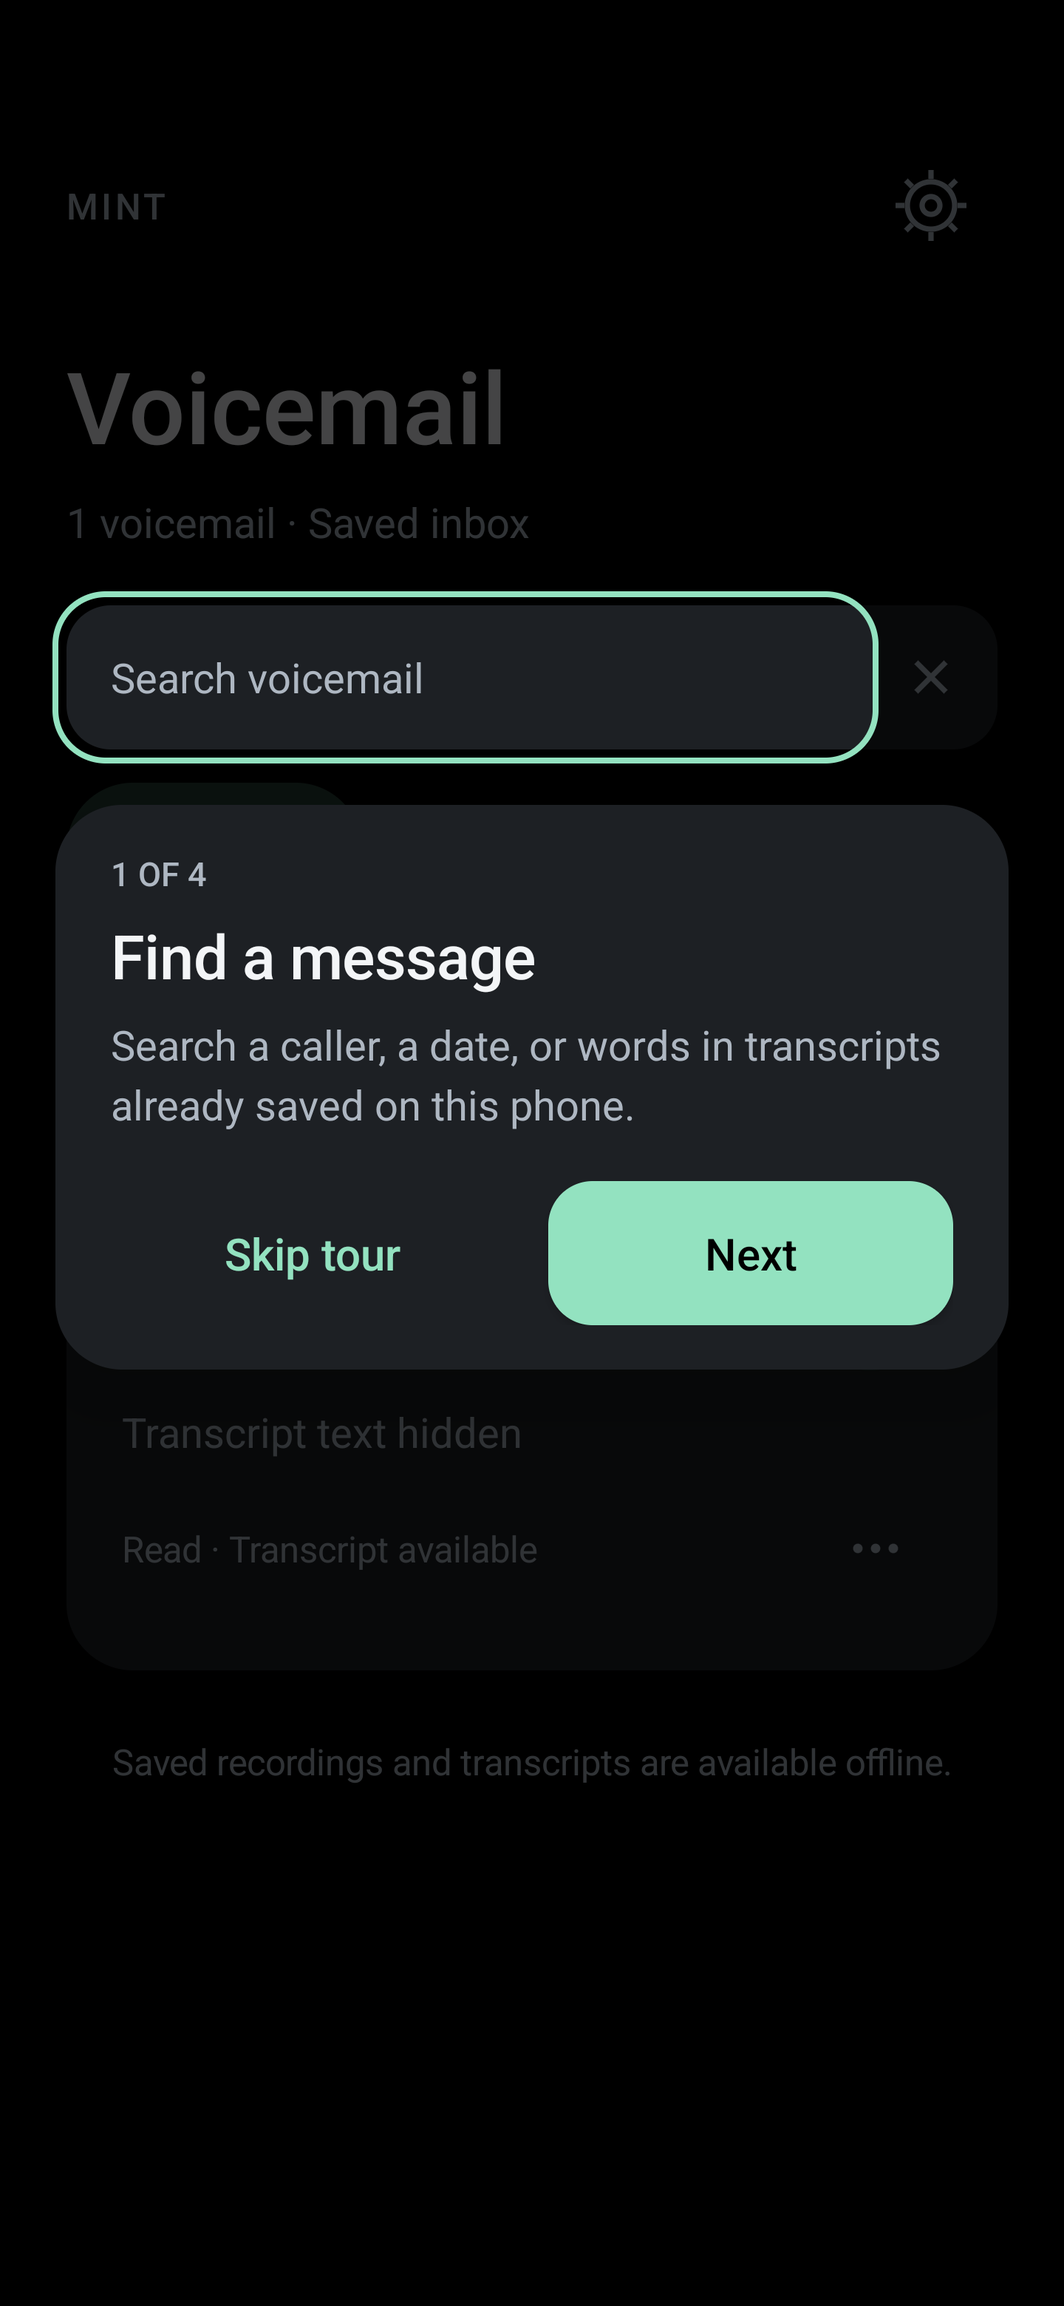
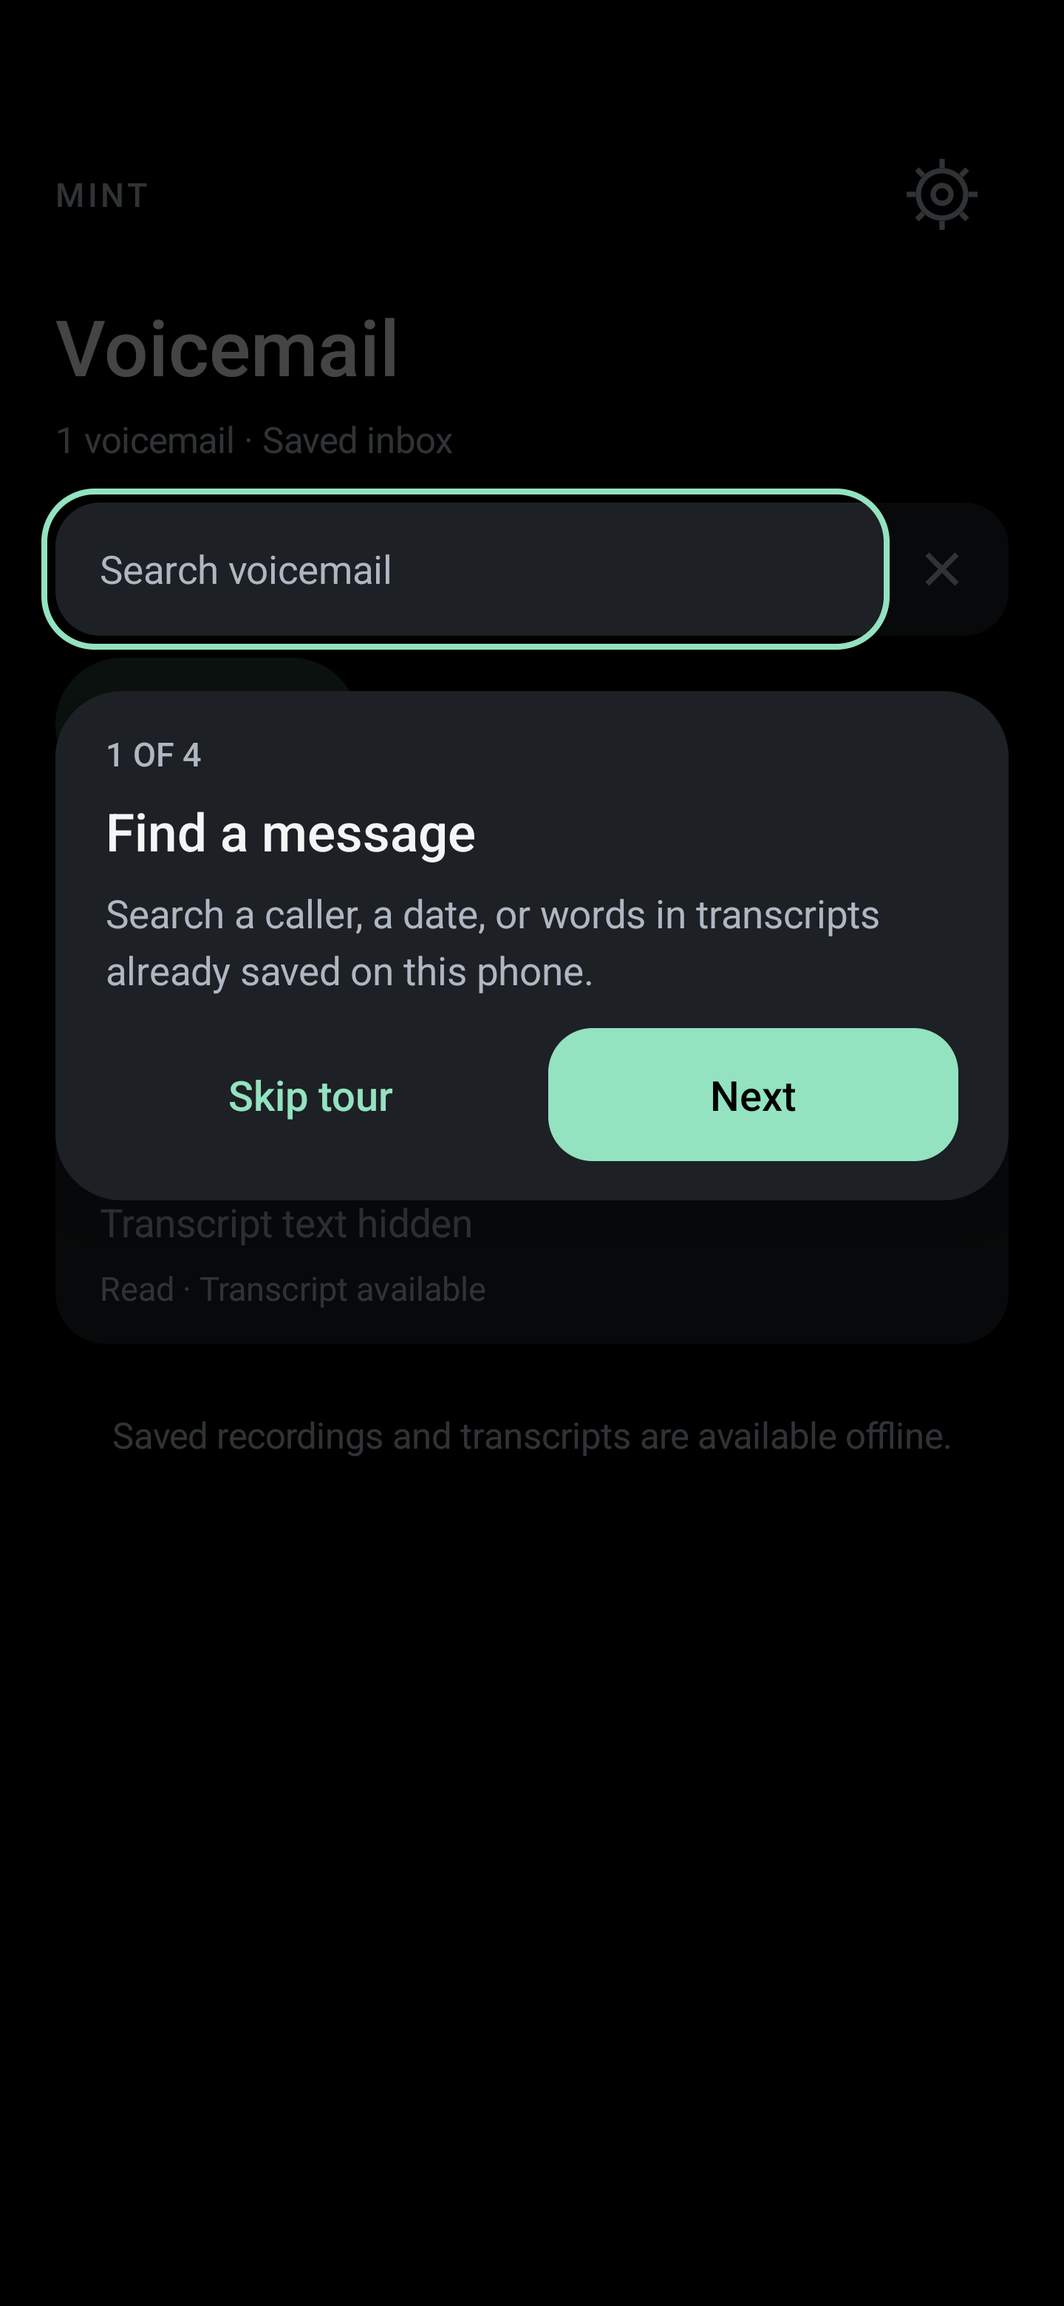
Document compact layouts and verify back navigation

diff --git a/app/device-tests/NavigationCheck.java b/app/device-tests/NavigationCheck.java
@@ -1,0 +1,146 @@
+package org.visualvoicemail.checks;
+
+import android.app.*;
+import android.content.*;
+import android.os.*;
+import android.view.*;
+
+import org.json.*;
+
+import java.lang.reflect.*;
+import java.util.*;
+
+/** Back returns within the app in normal flows and reconstructs parents for isolated pages. */
+public final class NavigationCheck extends Instrumentation {
+    private int checks;
+    private Context context;
+    private Activity screen;
+
+    private void check(boolean value) throws Exception {
+        checks++;
+        if (!value) throw new Exception("check " + checks);
+    }
+
+    private Object field(Object target, String name) throws Exception {
+        Field f = target.getClass().getDeclaredField(name);
+        f.setAccessible(true);
+        return f.get(target);
+    }
+
+    private View find(View root, String description) {
+        if (description.contentEquals(
+                root.getContentDescription() == null ? "" : root.getContentDescription()))
+            return root;
+        if (root instanceof ViewGroup)
+            for (int i = 0; i < ((ViewGroup) root).getChildCount(); i++) {
+                View found = find(((ViewGroup) root).getChildAt(i), description);
+                if (found != null) return found;
+            }
+        return null;
+    }
+
+    private void click(View view) throws Exception {
+        check(view != null);
+        runOnMainSync(() -> view.performClick());
+        Thread.sleep(450);
+    }
+
+    private ActivityMonitor monitor(String name) {
+        return addMonitor("org.visualvoicemail.app." + name, null, false);
+    }
+
+    private Activity await(ActivityMonitor monitor) throws Exception {
+        Activity a = waitForMonitorWithTimeout(monitor, 5000);
+        check(a != null);
+        Thread.sleep(450);
+        return a;
+    }
+
+    private Activity root(String name, String id) {
+        Intent i =
+                new Intent()
+                        .setClassName(context, "org.visualvoicemail.app." + name)
+                        .addFlags(Intent.FLAG_ACTIVITY_NEW_TASK | Intent.FLAG_ACTIVITY_CLEAR_TASK);
+        if (id != null) i.putExtra("id", id).putExtra("caller", "Navigation check");
+        Activity a = startActivitySync(i);
+        return a;
+    }
+
+    @Override
+    public void onCreate(Bundle b) {
+        super.onCreate(b);
+        start();
+    }
+
+    @Override
+    public void onStart() {
+        Bundle out = new Bundle();
+        context = getTargetContext();
+        try {
+            Class<?> carrier = Class.forName("org.visualvoicemail.app.CarrierClient");
+            Method get = carrier.getDeclaredMethod("get", Context.class);
+            get.setAccessible(true);
+            Object client = get.invoke(null, context);
+            Method cached = carrier.getDeclaredMethod("cachedInbox");
+            cached.setAccessible(true);
+            List<?> inbox = (List<?>) cached.invoke(client);
+            String id = ((JSONObject) inbox.get(0)).getString("objectid");
+            Activity main = root("MainActivity", null);
+            Thread.sleep(600);
+            ActivityMonitor settings = monitor("SettingsActivity");
+            click((View) field(main, "settingsControl"));
+            screen = await(settings);
+            check(!screen.isTaskRoot());
+            click(find(screen.getWindow().getDecorView(), "Back to voicemail"));
+            check(main.hasWindowFocus());
+            ActivityMonitor recording = monitor("RecordingActivity");
+            runOnMainSync(
+                    () ->
+                            main.startActivity(
+                                    new Intent()
+                                            .setClassName(
+                                                    context,
+                                                    "org.visualvoicemail.app.RecordingActivity")
+                                            .putExtra("id", id)
+                                            .putExtra("caller", "Navigation check")));
+            screen = await(recording);
+            Activity detail = screen;
+            ActivityMonitor quality = monitor("TranscriptionSettingsActivity");
+            click((View) field(screen, "qualityControl"));
+            screen = await(quality);
+            click(find(screen.getWindow().getDecorView(), "Back to Settings"));
+            check(detail.hasWindowFocus());
+            click(find(detail.getWindow().getDecorView(), "Back to voicemail"));
+            check(main.hasWindowFocus());
+            for (String name : new String[] {"SettingsActivity", "RecordingActivity"}) {
+                screen = root(name, name.equals("RecordingActivity") ? id : null);
+                Thread.sleep(500);
+                check(screen.isTaskRoot());
+                ActivityMonitor home = monitor("MainActivity");
+                click(find(screen.getWindow().getDecorView(), "Back to voicemail"));
+                Activity restored = await(home);
+                check(restored.hasWindowFocus());
+            }
+            for (boolean systemBack : new boolean[] {false, true}) {
+                screen = root("TranscriptionSettingsActivity", null);
+                Thread.sleep(500);
+                check(screen.isTaskRoot());
+                ActivityMonitor parent = monitor("SettingsActivity"),
+                        home = monitor("MainActivity");
+                if (systemBack) sendKeyDownUpSync(KeyEvent.KEYCODE_BACK);
+                else click(find(screen.getWindow().getDecorView(), "Back to Settings"));
+                screen = await(parent);
+                check(!screen.isTaskRoot());
+                click(find(screen.getWindow().getDecorView(), "Back to voicemail"));
+                Activity restoredHome = await(home);
+                check(restoredHome.hasWindowFocus());
+            }
+            out.putBoolean("passed", true);
+        } catch (Throwable e) {
+            out.putBoolean("passed", false);
+            out.putString("failure_class", e.getClass().getSimpleName());
+        }
+        out.putInt("checks", checks);
+        finish(-1, out);
+    }
+}

diff --git a/research/check_device_ui.py b/research/check_device_ui.py
@@ -7,7 +7,7 @@ import subprocess
 import zipfile
 
 parser = argparse.ArgumentParser()
-parser.add_argument('--test', choices=['recording', 'onboarding', 'quality'], default='recording')
+parser.add_argument('--test', choices=['recording', 'onboarding', 'quality', 'navigation'], default='recording')
 parser.add_argument('--serial', help='ADB device serial; omit only with one connected device')
 parser.add_argument('--compile-only', action='store_true')
 args = parser.parse_args()
@@ -17,7 +17,7 @@ bt = tools / 'build-tools/android-16'
 java = next((tools / 'jre21').glob('*/bin/java.exe'), None) or shutil.which('java')
 if not java:
     raise SystemExit('Install Java 17+ and build the app first.')
-name = {'recording': 'RecordingFlowCheck', 'onboarding': 'OnboardingFlowCheck', 'quality': 'QualityMotionCheck'}[args.test]
+name = {'recording': 'RecordingFlowCheck', 'onboarding': 'OnboardingFlowCheck', 'quality': 'QualityMotionCheck', 'navigation': 'NavigationCheck'}[args.test]
 output = root / 'app/build' / ('device-' + args.test)
 classes, dex = output / 'classes', output / 'dex'
 classes.mkdir(parents=True, exist_ok=True)

diff --git a/app/device-tests/QualityMotionCheck.java b/app/device-tests/QualityMotionCheck.java
@@ -96,7 +96,7 @@ public final class QualityMotionCheck extends Instrumentation {
                                     .addFlags(Intent.FLAG_ACTIVITY_NEW_TASK));
             Thread.sleep(800);
             Button quality = (Button) field(screen, "qualityControl");
-            check(quality.getText().toString().contains("Standard (Whisper Tiny)"));
+            check(quality.getText().toString().contains("Standard (Tiny)"));
             Activity recording = screen;
             ActivityMonitor picker =
                     addMonitor(
@@ -115,7 +115,7 @@ public final class QualityMotionCheck extends Instrumentation {
             runOnMainSync(() -> screen.finish());
             screen = recording;
             Thread.sleep(600);
-            check(quality.getText().toString().contains("Enhanced (Whisper Base)"));
+            check(quality.getText().toString().contains("Enhanced (Base)"));
             check(
                     ((TextView) field(screen, "transcriptState"))
                             .getText()

diff --git a/docs/compact-interface.md b/docs/compact-interface.md
@@ -1,0 +1,17 @@
+# Compact interface in version 0.15
+
+The visual pass reduces the oversized headings, padding, and repeated helper text reported on the S24 Ultra. Main titles are 28 sp, detail titles 24 sp, section titles 20 sp, and primary controls/body copy 15–16 sp. Secondary information is generally 12–13 sp. Text still follows Android font scaling; device display/font preferences are not changed.
+
+Inbox cards and Settings rows use tighter padding and section gaps. Inbox play/menu actions share the caller row, avoiding a separate tall action footer; transcript previews use a single line. The recording player uses a 56 dp play target, smaller margins, and a shorter card. Standard controls retain 48 dp touch targets. Transcript text uses a continuous paragraph layout, with a soft highlight for the current phrase instead of a separate filled card around every phrase.
+
+The transcript header contains a compact Standard (Tiny) / Enhanced (Base) text control. Full Whisper model names remain on the choice page and in accessibility labels. With larger fonts or a narrower window, that control moves below the heading instead of competing for one row. Model descriptions and setup/helper text are shorter; detailed explanations remain in About/Settings and the contextual tour.
+
+The first-use introduction and anchored tips use the same smaller hierarchy. Theme colors, app-wide press feedback, transcript search, and audio behavior remain available.
+
+## Back navigation
+
+The screenshot helper sometimes opened a detail/settings page as its own task, leaving no previous app page behind it. The old top-left action simply finished that page. Settings, recording detail, and transcription quality now declare their parent pages and use a common Up action. Normal navigation finishes the current page; an isolated page reconstructs its parent stack. System Back gets the same fallback only for an isolated child page, preserving native behavior for normal activity stacks.
+
+Thirty-three S24 Ultra navigation checks cover normal Settings/recording/quality paths, isolated Settings and recording pages returning to the inbox, and isolated quality pages returning to Settings and then the inbox. Both top-left and system Back were checked. Screenshot/test activity launches remain temporary; the normal app is reopened after testing.
+
+The compact build also passed the 24 quality/tap-feedback, 14 playback, and 32 anchored-onboarding device checks. Theme contrast and 74 host behavior checks passed. Full large-font/TalkBack/landscape coverage remains open; the phone font setting stayed at 1.0 and was not changed.

diff --git a/README.md b/README.md
@@ -6,11 +6,11 @@ An investigation and prototype for a free, open-source Android visual voicemail 
 
 The app uses the existing carrier mailbox, works alongside the user's chosen dialer, and adds a clear inbox and on-device transcription.
 
-An independently signed Android app now authenticates to Mint's existing voicemail service, loads the real mailbox, and downloads and plays recordings without carrier privileges or a default-dialer role. Version 0.14 adds Standard (Whisper Tiny) and Enhanced (Whisper Base) quality choices directly on the transcript page and in Settings, plus consistent tap feedback and reduced-motion support. English transcription, phrase-based tap-to-play, transcript search, and the guided introduction work on the phone.
+An independently signed Android app now authenticates to Mint's existing voicemail service, loads the real mailbox, and downloads and plays recordings without carrier privileges or a default-dialer role. Version 0.15 adds a more compact interface and reliable back navigation for individually opened pages. Standard (Whisper Tiny) and Enhanced (Whisper Base) quality choices remain directly on the transcript page and in Settings, with consistent tap feedback and reduced-motion support. English transcription, phrase-based tap-to-play, transcript search, and the guided introduction work on the phone.
 
 ## Screenshots
 
-Player/settings/quality screenshots are from version 0.14; inbox/onboarding screenshots are from version 0.13 on the S24 Ultra. Caller details and dates are hidden before capture; transcript screenshots use labeled sample text. System status icons are omitted. Select an image to view it at full size.
+Screenshots show the compact version 0.15 interface on the S24 Ultra. Caller details and dates are hidden before capture; transcript screenshots use labeled sample text. System status icons are omitted. Select an image to view it at full size.
 
 <table>
   <tr><th>Recording · Dark</th><th>Recording · Light</th><th>Recording · AMOLED</th></tr>
@@ -46,6 +46,7 @@ Player/settings/quality screenshots are from version 0.14; inbox/onboarding scre
 - [Search, read/unread status, and reversible deletion marks](docs/search-actions.md)
 - [App settings and playback preferences](docs/settings.md)
 - [Motion and responsive tap feedback](docs/motion.md)
+- [Compact layout and back navigation](docs/compact-interface.md)
 - [First-use tutorial and replayable help](docs/tutorial.md)
 - [App icon and branding assets](docs/branding/README.md)
 - [LinkedIn promo video and post assets](media/promo/README.md)

diff --git a/docs/transcription.md b/docs/transcription.md
@@ -57,3 +57,5 @@ Further coverage is needed for long/noisy recordings, diverse accents, real timi
 The Enhanced model downloaded and passed SHA-256 verification on the S24 Ultra. A public speech fixture with two seconds of added leading silence produced the expected words, valid phrase anchors, an Enhanced quality tag, and a base.en engine tag in 2,020 ms. Selection was locked during the download. This is a functional check, not an accuracy comparison or a performance benchmark. The fixture and its temporary transcript were removed afterward.
 
 Twenty-four quality/motion device checks cover the control on the transcript page, the same choices reached from Settings, persistent selection, keeping an existing transcript, immediate tap actions, release/cancel feedback, and reduced-motion behavior. See [device checks](../app/device-tests/README.md). The user's original quality and motion preferences are restored after testing. The 14 recording-flow and 32 onboarding-flow checks also passed on version 0.14.
+
+Version 0.15 compacts the transcript header to Standard (Tiny) / Enhanced (Base), retaining full Whisper names in the quality picker and accessibility label. The same model selection and saved-transcript policy apply.

diff --git a/app/device-tests/README.md b/app/device-tests/README.md
@@ -8,8 +8,11 @@ Build/install the project's debug APK first. The device must have a cached voice
 python research/check_device_ui.py --serial YOUR_ADB_SERIAL --test recording
 python research/check_device_ui.py --serial YOUR_ADB_SERIAL --test onboarding
 python research/check_device_ui.py --serial YOUR_ADB_SERIAL --test quality
+python research/check_device_ui.py --serial YOUR_ADB_SERIAL --test navigation
 ```
 
 Use `--compile-only` to type-check both sources without accessing a phone. Full speech recognition and leading-silence checks were run separately on the S24 Ultra; see docs/transcription.md for results and limits.
 
 The quality check switches between Standard and Enhanced without regenerating or downloading a personal transcript. It checks both entry points, retains the cached text, exercises actual tap/cancel events, and restores the original quality/reduced-motion settings.
+
+Navigation checks exercise normal parent stacks and isolated pages opened by tooling. They use an existing cached voicemail without playing or changing it, and check both top-left and system Back.

diff --git a/AGENTS.md b/AGENTS.md
@@ -11,3 +11,5 @@
 - Distinguish static code findings, live app observations, and independently reproduced behavior.
 - Apply the shared `AppMotion` policy to new app controls: brief, interruptible press feedback, immediate actions, and support for both app Reduce motion and Android animation settings. Keep native switch/seek gestures and navigation behavior. See `docs/motion.md` for the Apple-guided interaction rules.
 - Keep transcription choices in plain language with the model name available: Standard (Whisper Tiny) and Enhanced (Whisper Base). The recording transcript and Settings use the same selection. Changing quality must preserve saved transcripts until the user requests an update.
+
+- Follow the compact type/spacing hierarchy in `Ui` and `docs/compact-interface.md`. Prefer shorter helper text and fewer filled containers; retain readable font scaling and comfortable touch targets. Top-left back actions must use the shared Up behavior so individually opened child pages return to their parent.

diff --git a/docs/screenshots/README.md b/docs/screenshots/README.md
@@ -7,3 +7,5 @@ Recording screenshots cover Light, Dark, and true-black AMOLED. The guided-inbox
 `playback-dark.png` is a legacy version 0.11 capture retained only for the paused promo video's existing source script. It is not part of the current app gallery. Promo work remains paused.
 
 Version 0.14 refreshes the recording views in all three themes, shows the quality control directly below Transcript, adds the quality-choice page, and includes Reduce motion in Settings. The quality page contains public model descriptions only.
+
+Version 0.15 refreshes the full current gallery for the compact layout. Every screenshot was visually reviewed; rendered sample transcript timestamps retain the real UI text hierarchy. The legacy promo-only playback image remains separate.

diff --git a/docs/tutorial.md b/docs/tutorial.md
@@ -1,4 +1,4 @@
-# Introduction and guided controls in version 0.13
+# Introduction and guided controls in version 0.15
 
 The optional first-use flow has four short screens: welcome, voicemail management with reversible sample actions, an interactive transcript example, and permission setup. Contacts and notifications are requested only when their explicit Enable button is selected. Denying or skipping them does not block the inbox. The speech model download waits until a recording needs transcription.
 

diff --git a/docs/motion.md b/docs/motion.md
@@ -1,4 +1,4 @@
-# Motion and tap feedback in version 0.14
+# Motion and tap feedback in version 0.15
 
 The app follows Apple's [motion guidance](https://developer.apple.com/design/human-interface-guidelines/motion): feedback should be brief, purposeful, interruptible, and optional. These are design principles applied to native Android controls; the app retains Android navigation and accessibility behavior.
 

diff --git a/docs/settings.md b/docs/settings.md
@@ -1,4 +1,4 @@
-# App settings in version 0.14
+# App settings in version 0.15
 
 Open the gear at the top-right of the inbox. Settings uses the same light/dark/AMOLED palette as the inbox, remembers its scroll position, and keeps preferences after reopening.
 
